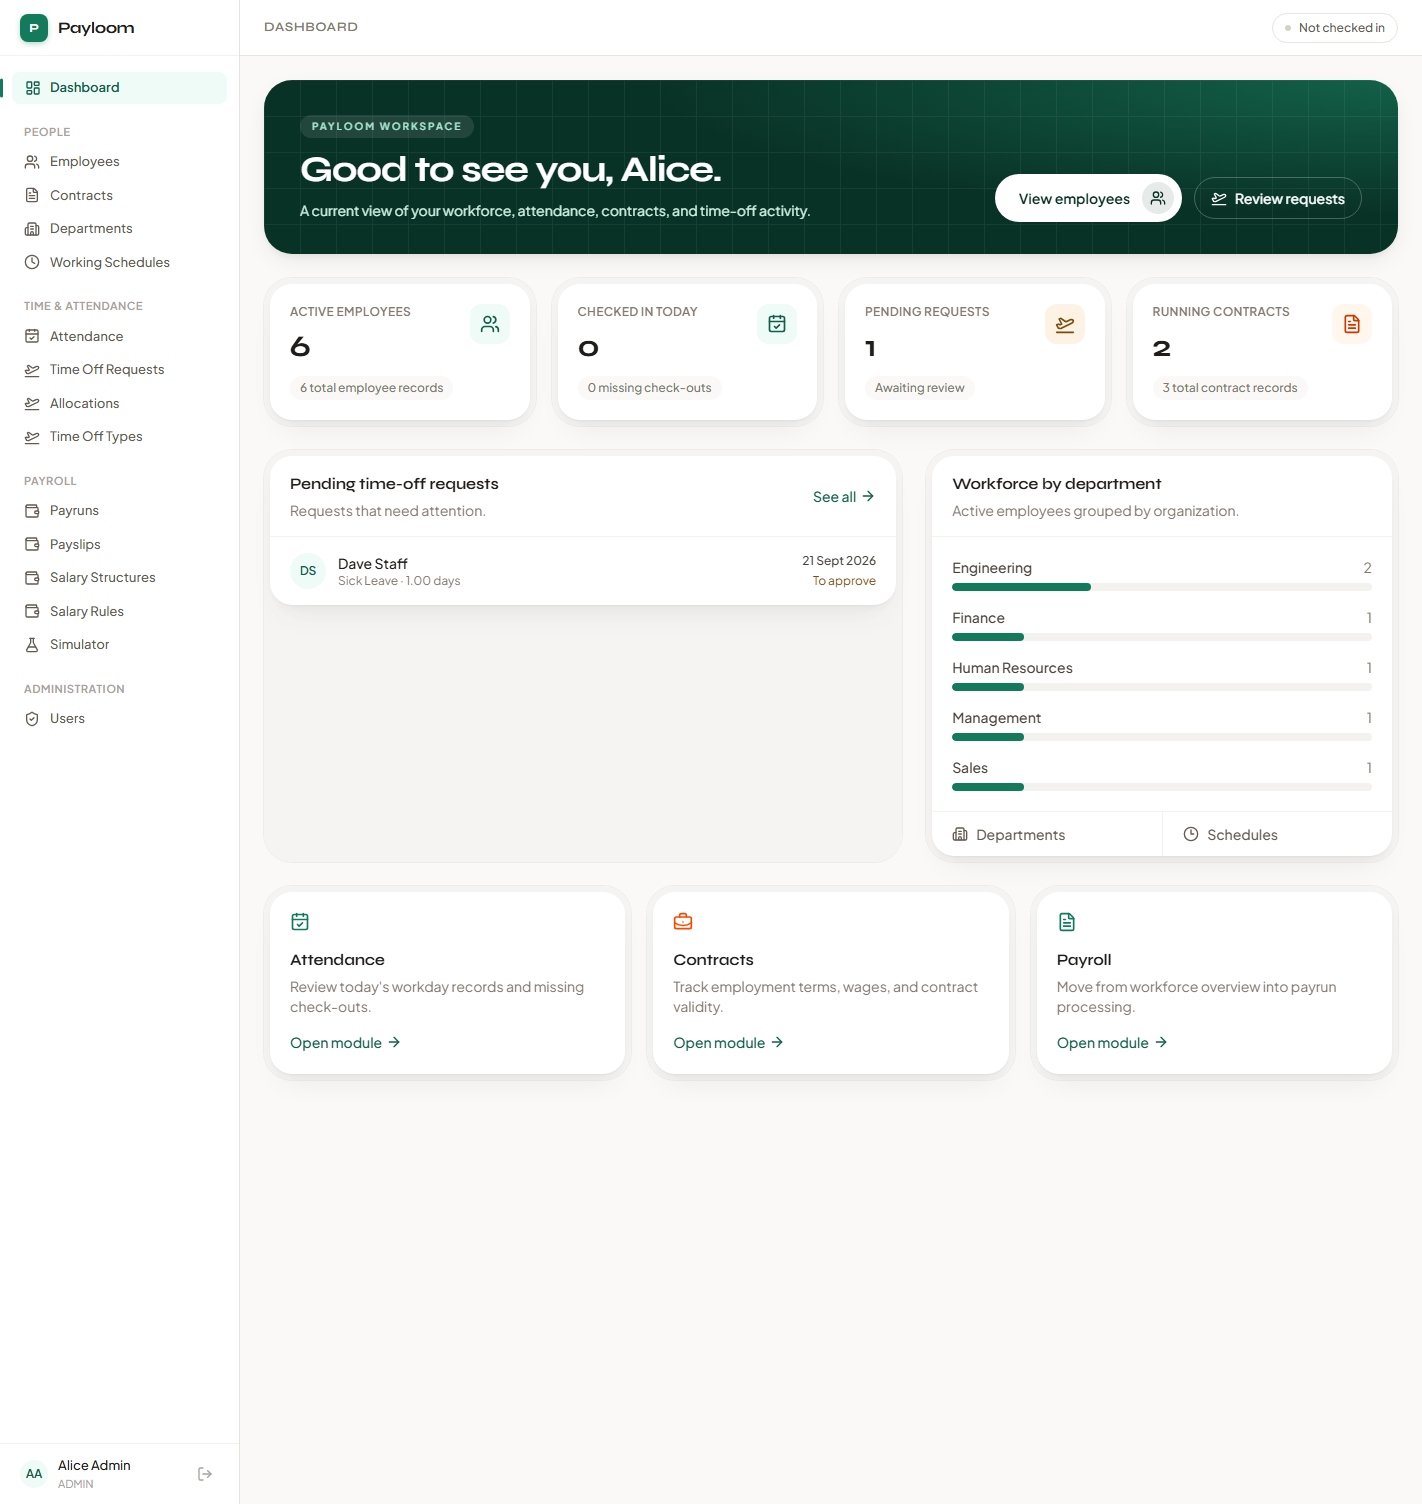
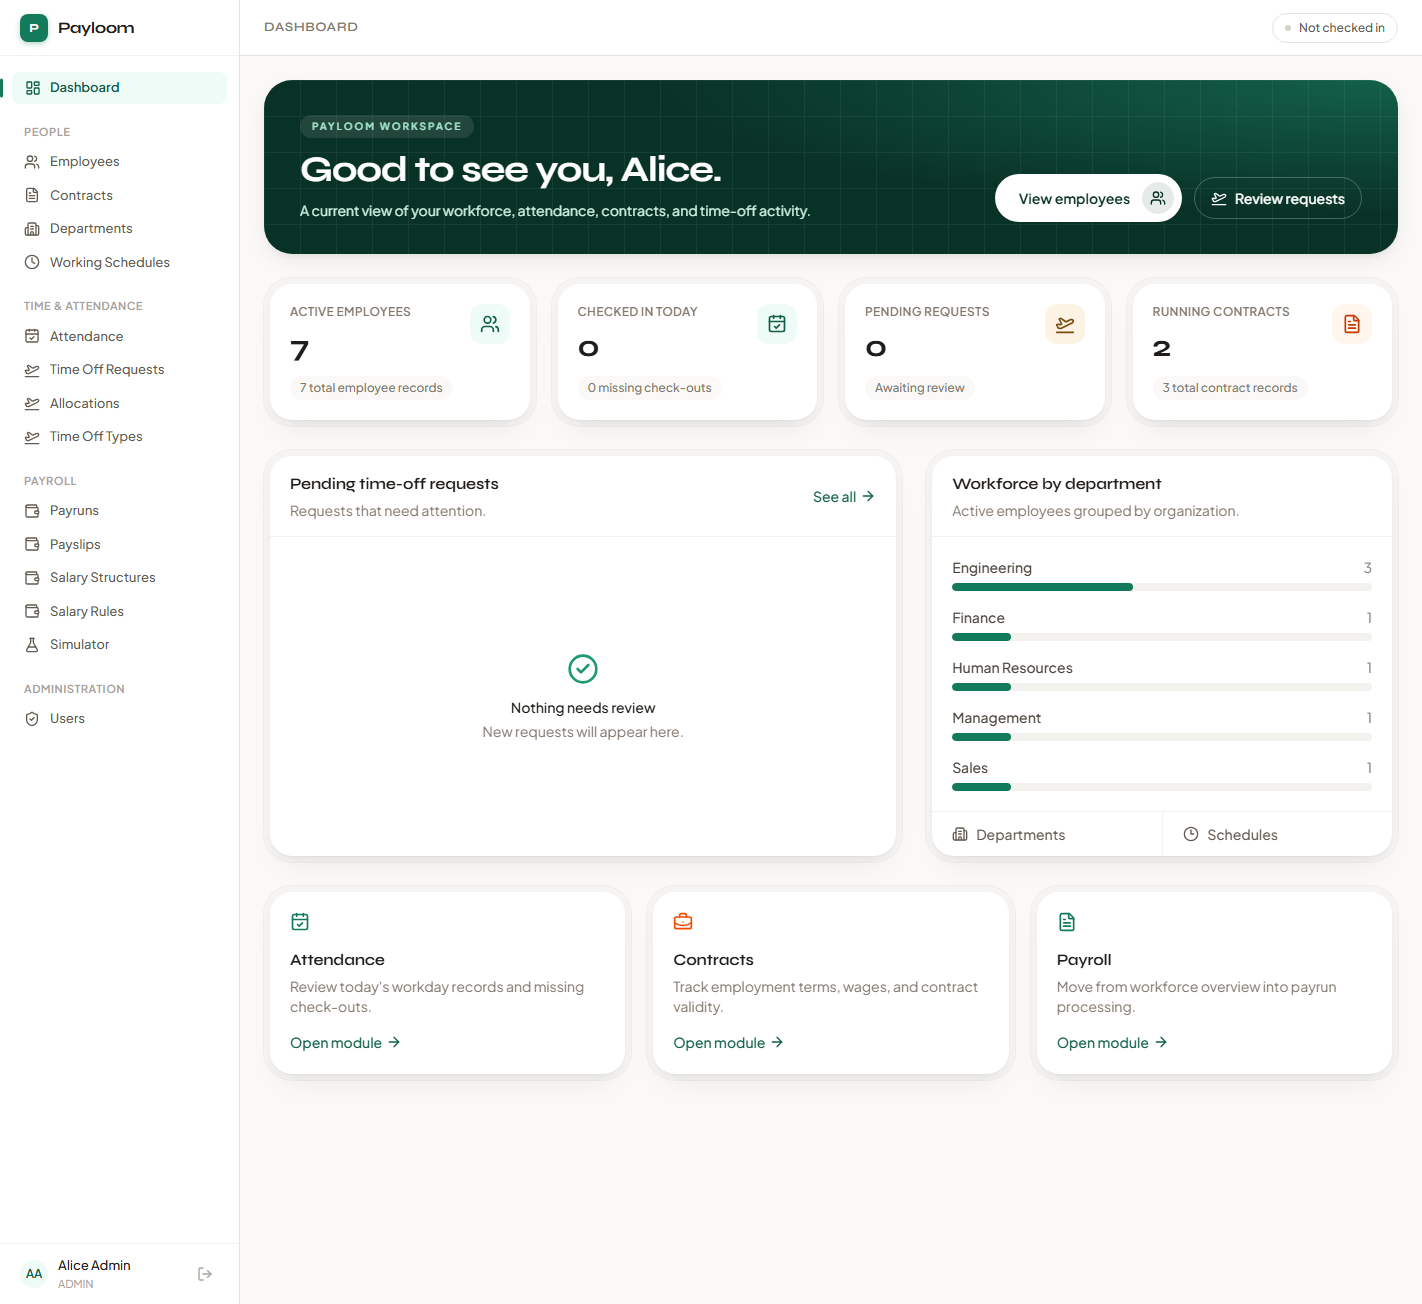
Dashboard: equal-height cards, centered time-off empty state
The 'Pending time-off requests' card was shorter than 'Workforce by
department' next to it, and its empty state hugged the top. Make both
bezel cores flex-fill their row height and center the empty state.

diff --git a/frontend/src/pages/Dashboard.tsx b/frontend/src/pages/Dashboard.tsx
@@ -190,9 +190,9 @@ export function Dashboard() {
         </div>
       )}
 
-      <div className="grid gap-6 xl:grid-cols-[1.15fr_0.85fr]">
-        <section className="bezel">
-        <div className="bezel-core">
+      <div className="grid items-stretch gap-6 xl:grid-cols-[1.15fr_0.85fr]">
+        <section className="bezel flex flex-col">
+        <div className="bezel-core flex flex-1 flex-col">
           <div className="flex items-center justify-between border-b border-gray-100 px-5 py-4">
             <div>
               <h2 className="font-semibold text-gray-900 font-display">Pending time-off requests</h2>
@@ -202,10 +202,10 @@ export function Dashboard() {
               See all <ArrowRight className="h-4 w-4" />
             </Link>
           </div>
-          <div className="divide-y divide-gray-100">
+          <div className="flex flex-1 flex-col divide-y divide-gray-100">
             {recentRequests.length === 0 ? (
-              <div className="px-5 py-10 text-center">
-                <CheckCircle2 className="mx-auto h-8 w-8 text-brand-500" />
+              <div className="flex flex-1 flex-col items-center justify-center px-5 py-12 text-center">
+                <CheckCircle2 className="h-8 w-8 text-brand-500" />
                 <p className="mt-3 text-sm font-medium text-gray-900">Nothing needs review</p>
                 <p className="mt-1 text-sm text-gray-500">New requests will appear here.</p>
               </div>
@@ -230,13 +230,13 @@ export function Dashboard() {
         </div>
         </section>
 
-        <section className="bezel">
-        <div className="bezel-core">
+        <section className="bezel flex flex-col">
+        <div className="bezel-core flex flex-1 flex-col">
           <div className="border-b border-gray-100 px-5 py-4">
             <h2 className="font-semibold text-gray-900 font-display">Workforce by department</h2>
             <p className="mt-1 text-sm text-gray-500">Active employees grouped by organization.</p>
           </div>
-          <div className="space-y-4 p-5">
+          <div className="flex-1 space-y-4 p-5">
             {departmentCounts.length === 0 ? (
               <p className="py-6 text-center text-sm text-gray-500">No department data available.</p>
             ) : departmentCounts.map(department => {
